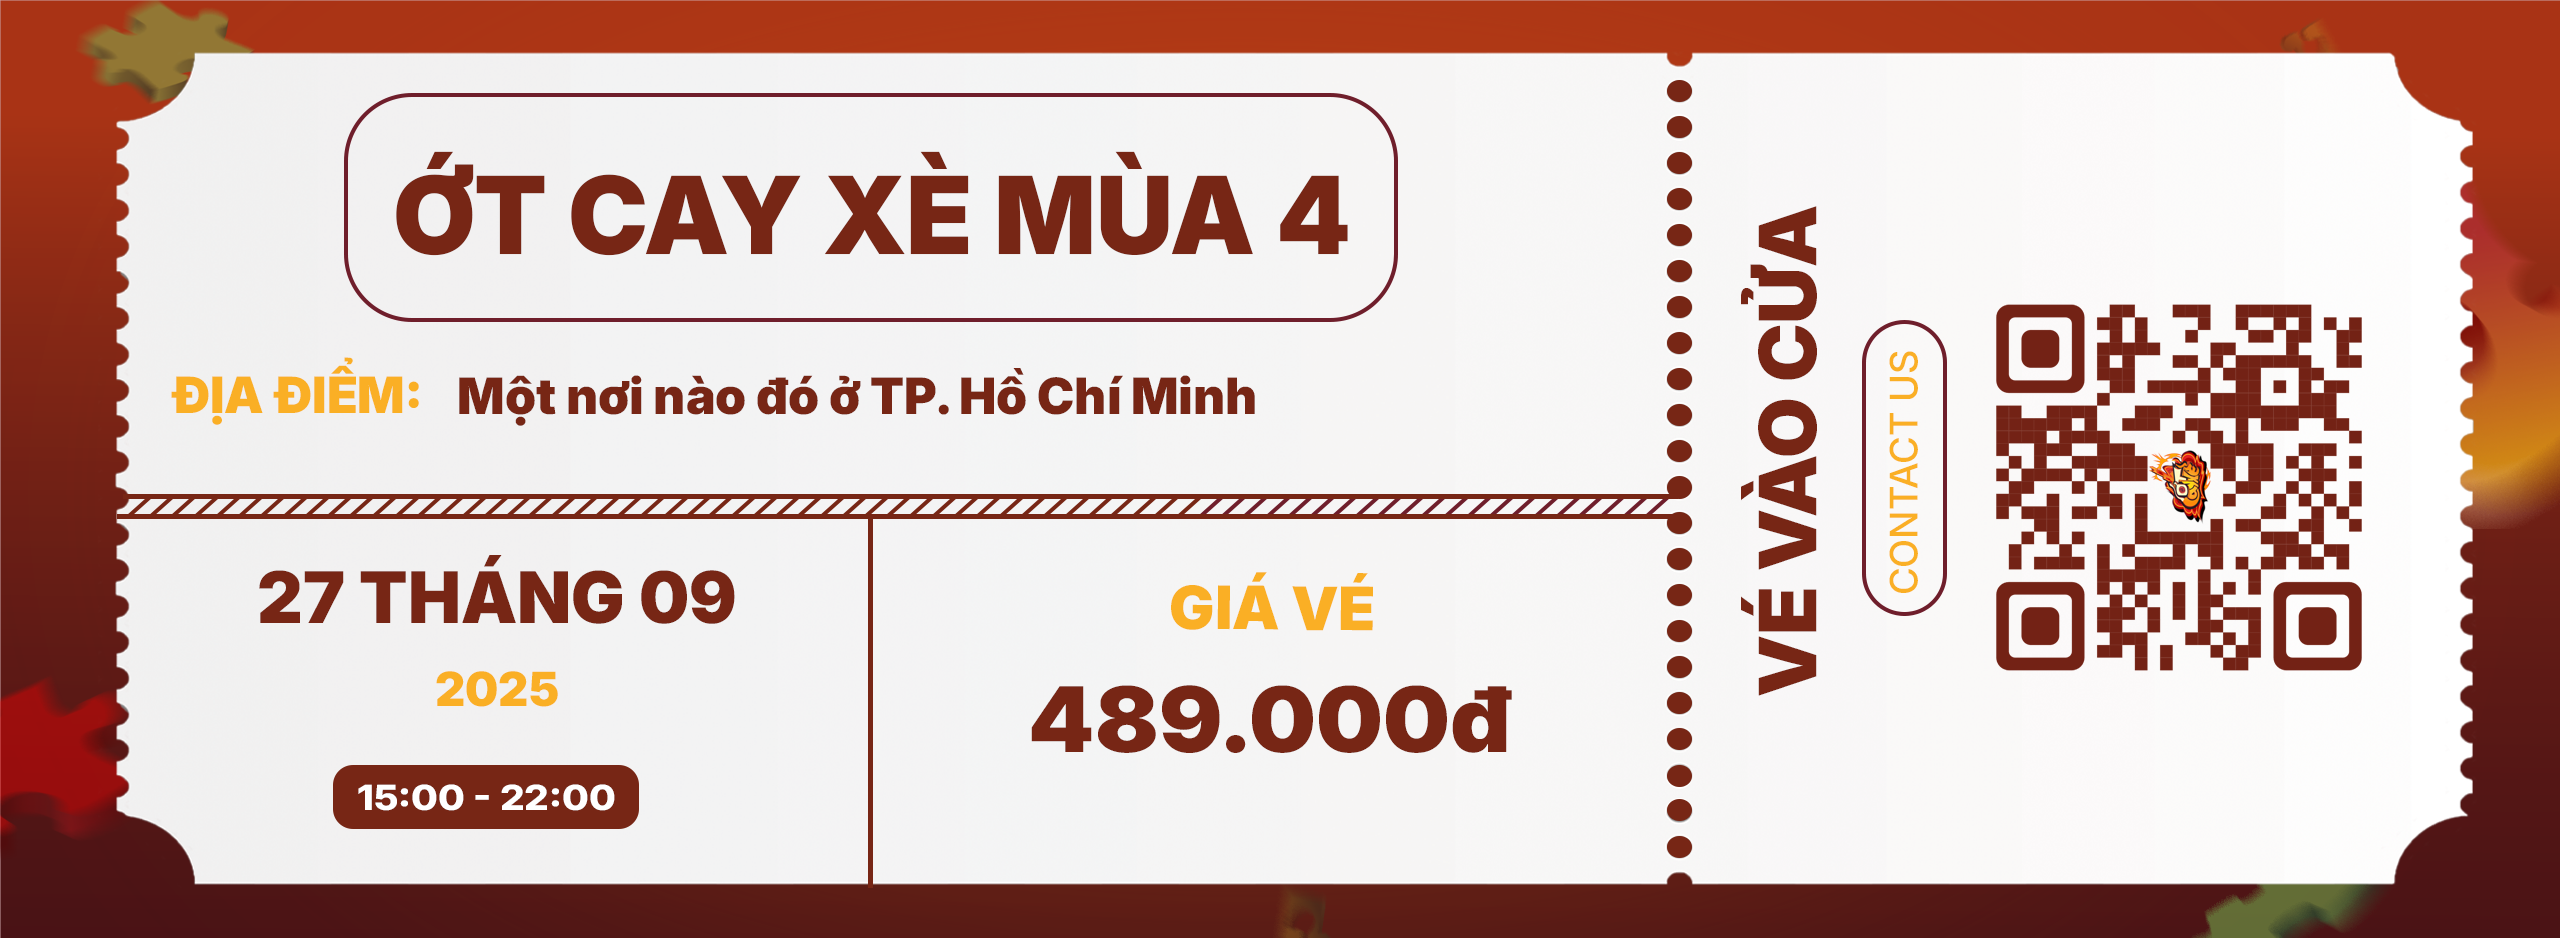
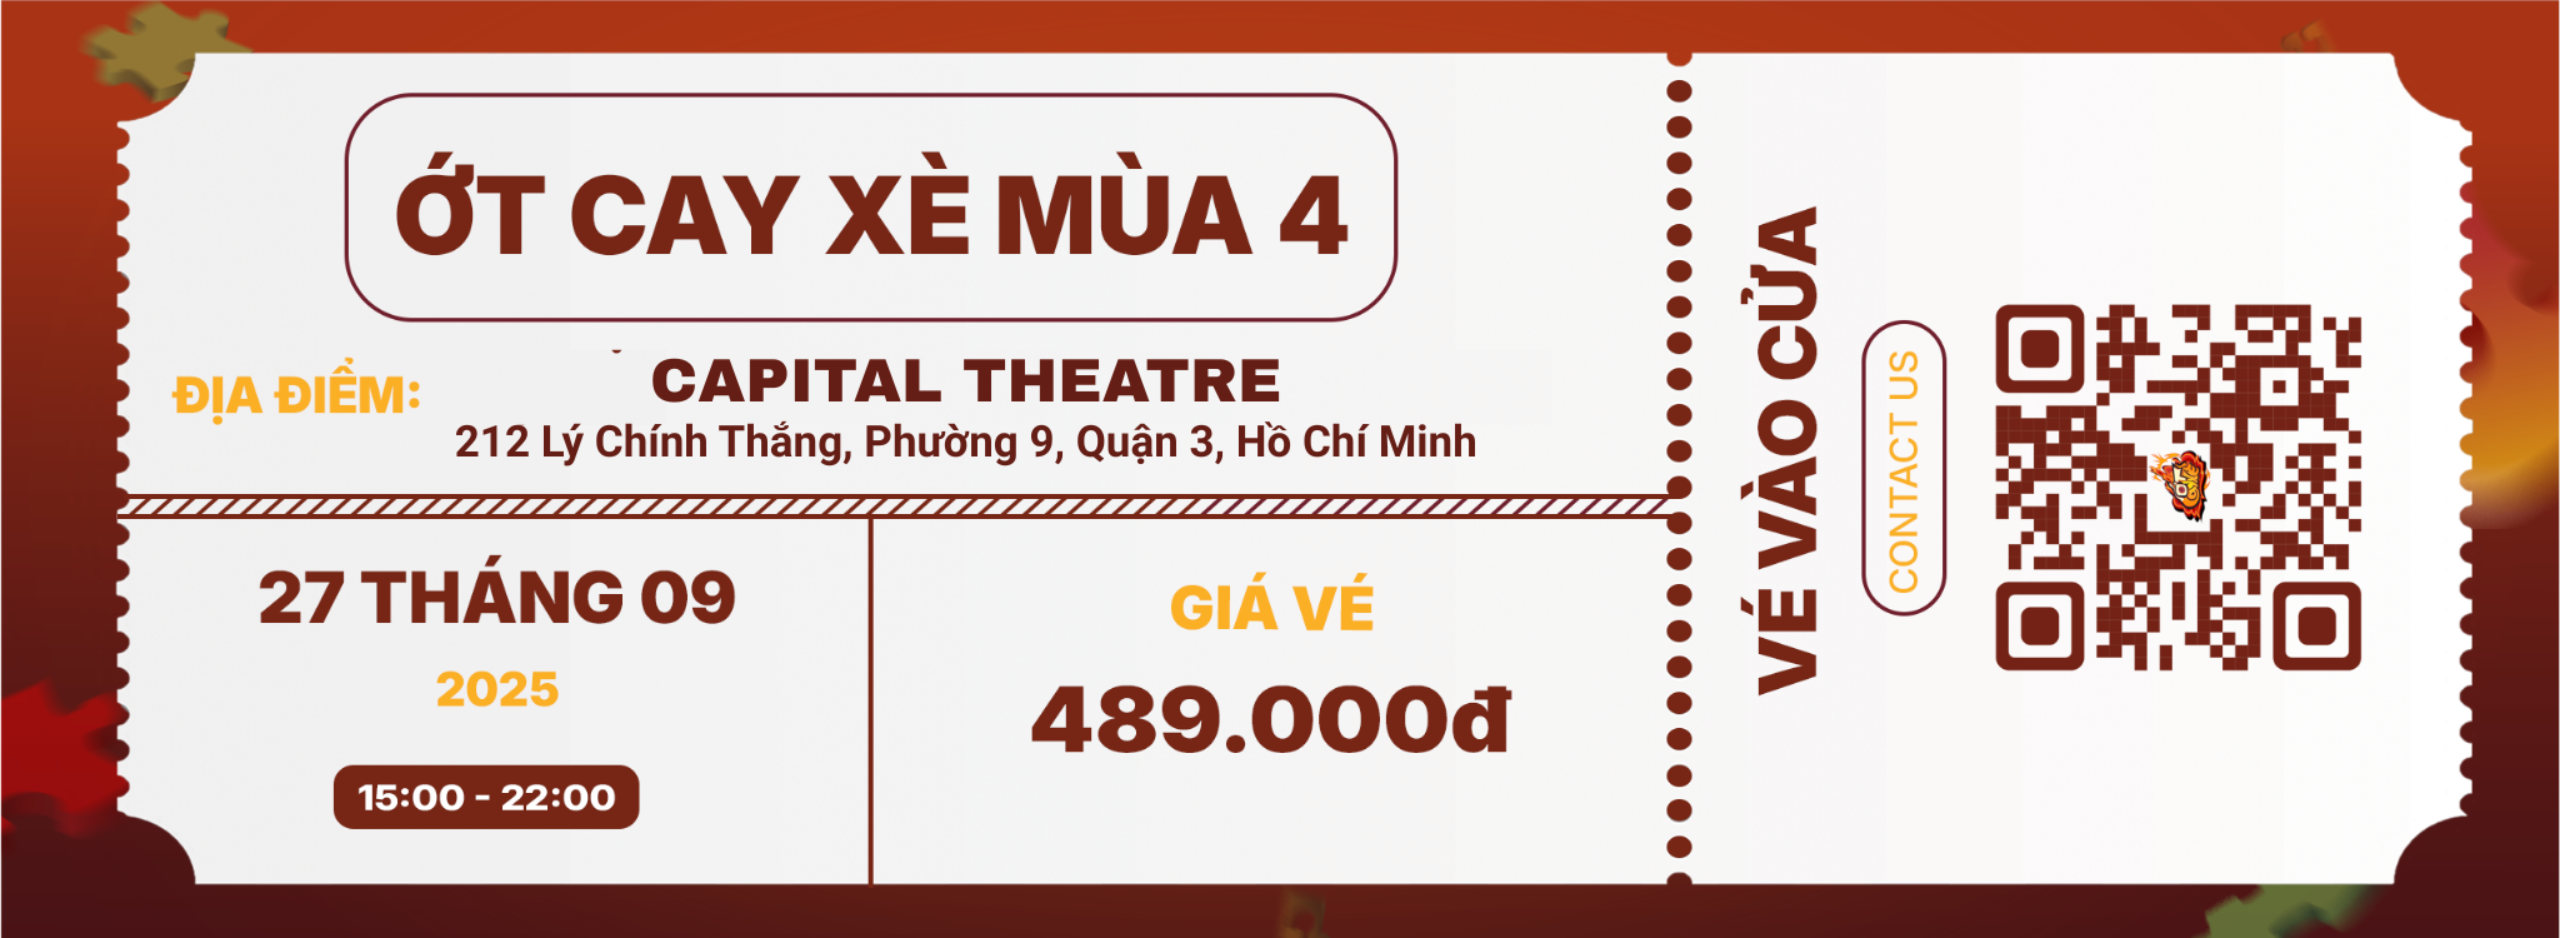
UPDATE VENUE

diff --git a/ocx-ticketing/src/app/components/HeroSection.tsx b/ocx-ticketing/src/app/components/HeroSection.tsx
@@ -88,8 +88,8 @@ export default function HeroSection() {
               </svg>
             </div>
             <div className="flex flex-col justify-center ml-3 text-left">
-              <span className="text-xl sm:text-2xl font-bold leading-tight">BÍ MẬT CẦN BẬT MÍ</span>
-              <span className="text-base sm:text-lg font-normal text-white/90 leading-tight">Capital Theatre - 212 Lý Chính Thắng, Hồ Chí Minh</span>
+              <span className="text-xl sm:text-2xl font-bold leading-tight"> CAPITAL THEATRE</span>
+              <span className="text-base sm:text-lg font-normal text-white/90 leading-tight">212 Lý Chính Thắng, Phường 9, Quận 3, Hồ Chí Minh</span>
             </div>
           </div>
         </div>
